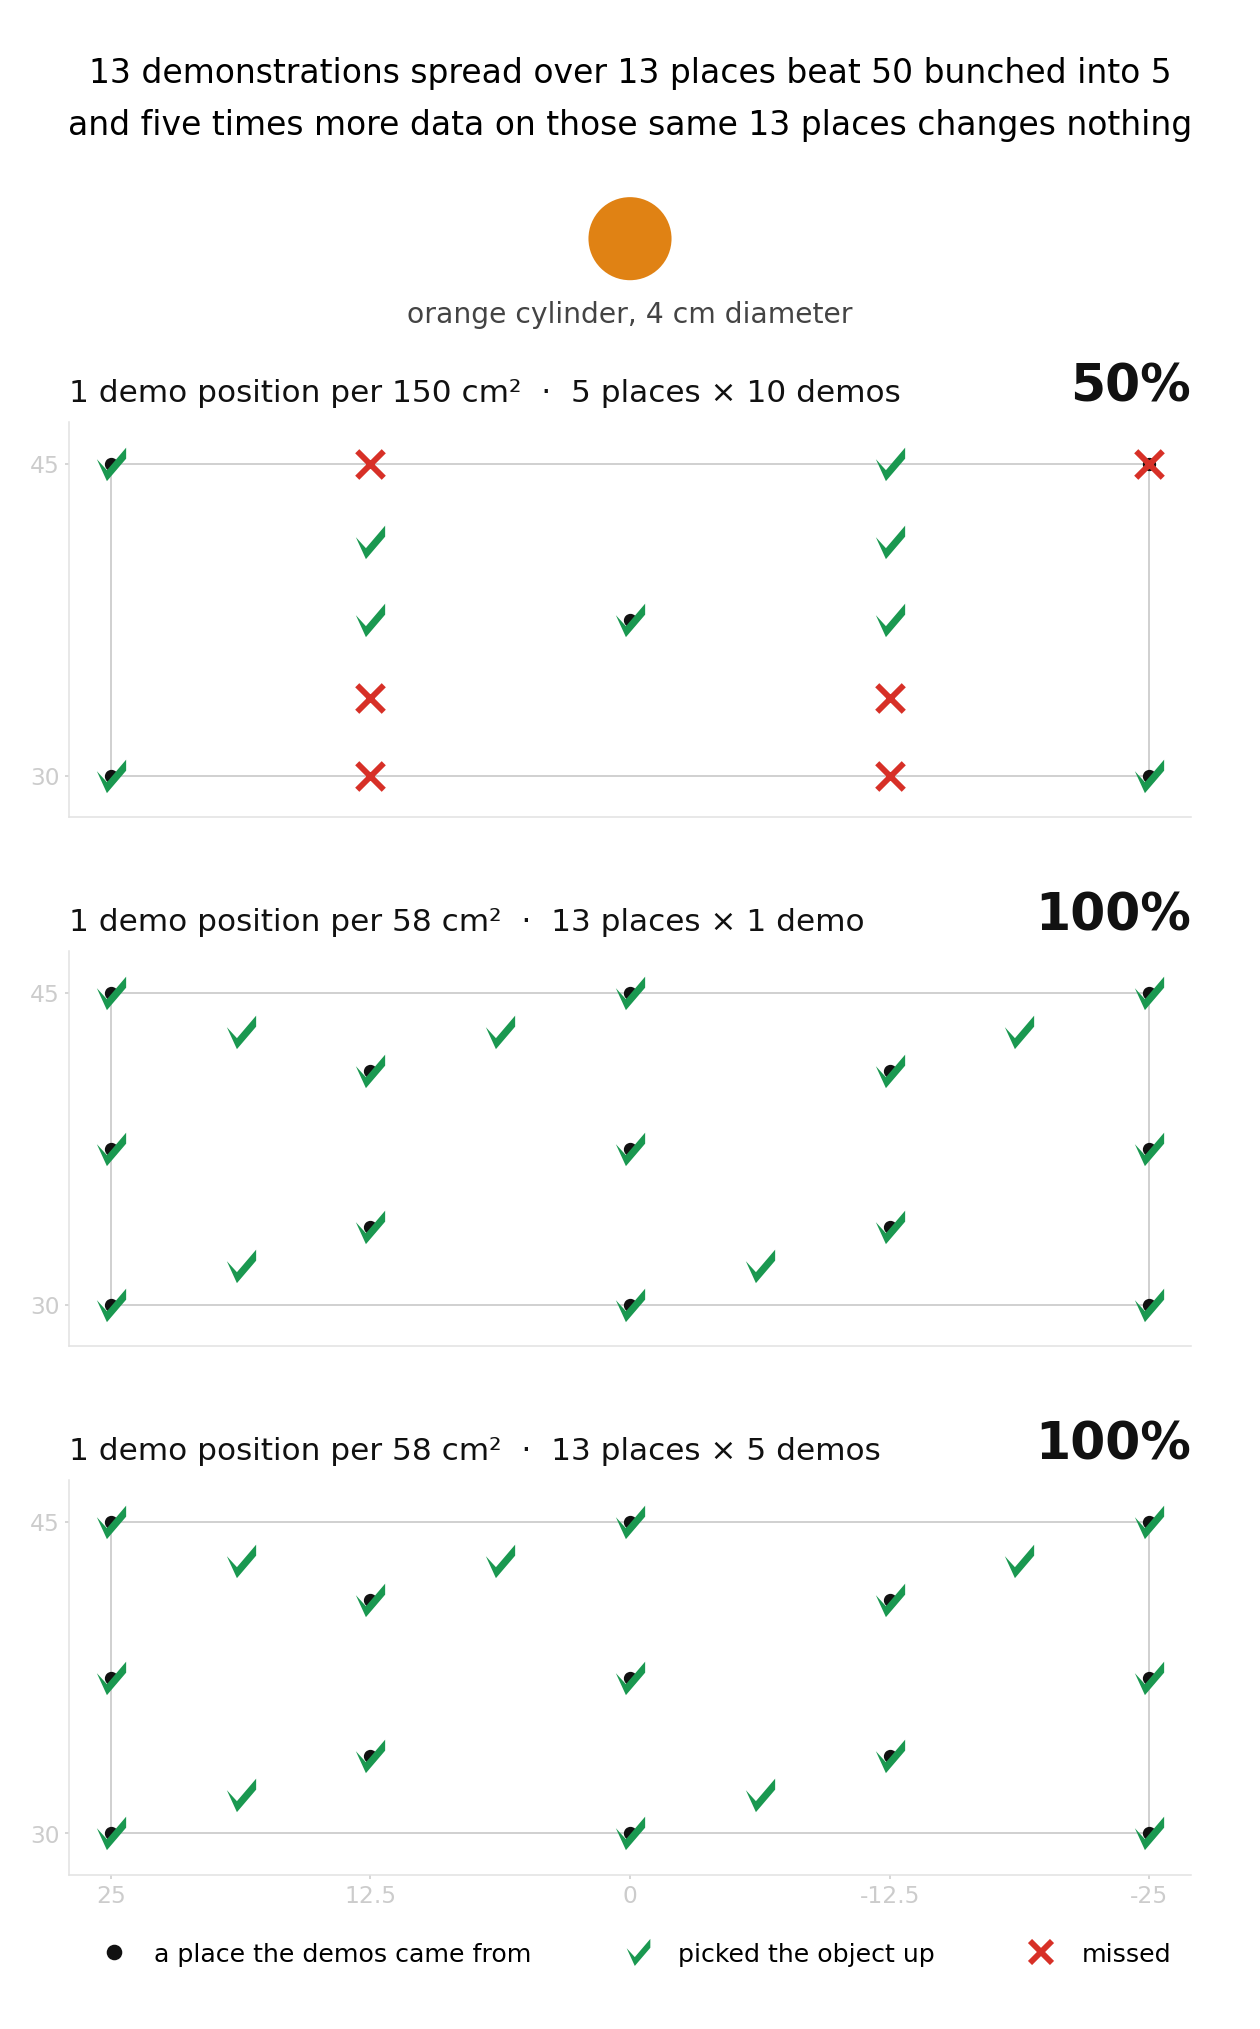
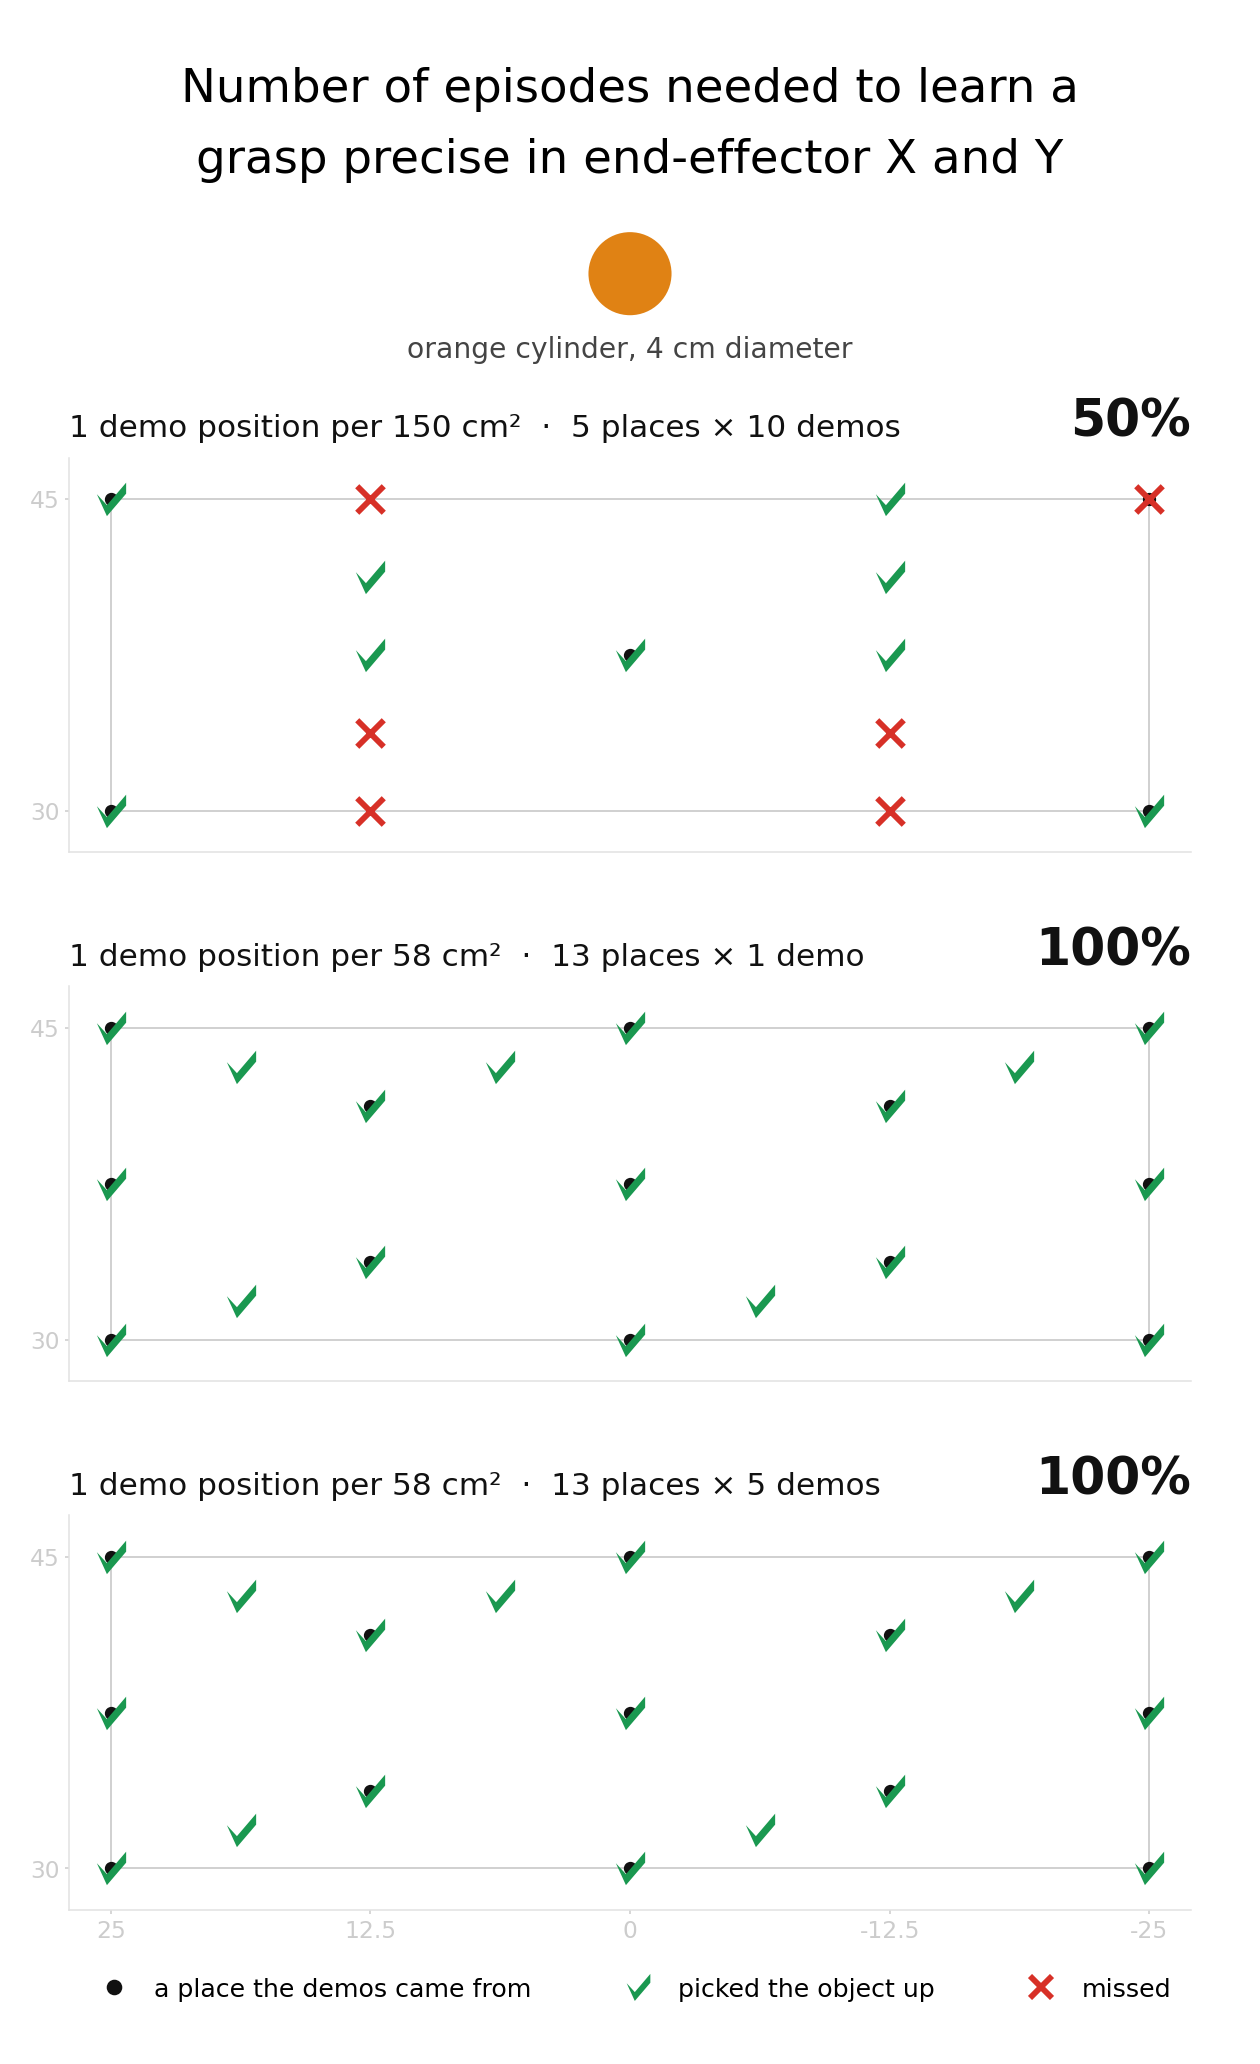
updated figures

diff --git a/_projects/vla_sim_to_real.md b/_projects/vla_sim_to_real.md
@@ -60,11 +60,11 @@ Joint logs are sampled at the driver's native **1.4 kHz**, not on the 10 Hz poli
 
 How many demonstrations does a task need? Sim-to-sim answers that first: train in simulation, test on placements the policy was never shown, and read off the episode count where it starts working. That is the baseline the sim-to-real requirement is measured against.
 
-Two objects set the scale. A cylinder has to be gripped near its centre or it slips, so it measures precision in x and y. A cuboid adds yaw. The difference between them is what one extra degree of freedom requires.
-
 ### Sim-to-Sim Baseline
 
-Picking a 4 cm cylinder off a 50 by 15 cm patch of table, scored at positions the policy was never shown.
+Two tasks set the scale. Picking up a 4 cm cylinder needs the gripper precise in x and y, since a cylinder looks the same from every direction. Picking up a cuboid adds yaw. Nothing else changes between them, so the gap between the two episode counts is what one extra degree of freedom costs.
+
+Both are scored over a 50 by 15 cm patch of table, at placements the policy was never shown.
 
 <div class="figure-pair">
   <figure>
@@ -77,29 +77,27 @@ Picking a 4 cm cylinder off a 50 by 15 cm patch of table, scored at positions th
   </figure>
 </div>
 
-Five sites at 10 episodes each, 50 in total, drops half the objects in the gaps between sites. Thirteen sites at one episode each, a quarter of the data, picks up the object in every gap it is tested in. Five episodes at each of those same 13 sites, 65 in total, changes nothing. It was already at 100%.
+Position first. Fifty episodes spread over 5 sites fails: half the objects fall in the gaps between sites. Thirteen episodes over 13 sites, a quarter of the data, picks the object up everywhere it is tested.
 
-What separates them is not the amount of data but the distance from any point on the table to the nearest demonstration. Five sites leave a worst spot nearly 14 cm away. Thirteen bring that under 7 cm, less than two object widths, and below that distance the policy fills in the gap on its own.
+What counts is the spacing between demonstrations, not how many there are. Thirteen sites over the 750 cm&sup2; patch is one demonstration per 58 cm&sup2;. At that spacing the policy covers the gaps on its own; at one per 150 cm&sup2; it does not. And more data at the same spacing adds nothing: 65 episodes over those same 13 sites still scores 100%.
 
-Orientation behaves the same way at fixed data size. All three conditions are 130 episodes, 13 sites at 10 each, differing only in how those 10 spread across the cuboid's yaw. Two angles fails 60% of the time at anything else. Four angles handles a little over three quarters. A fresh angle every episode, closing the largest untaught gap to under 9 degrees, handles all of them.
+Yaw costs ten times more. The cuboid needs 130 episodes, the same 13 sites with 10 angles at each, and the angles have to differ. Ten episodes split over two angles fails 60% of the time on anything else, over four angles about a quarter of the time. Only a fresh angle every episode works everywhere.
 
-Coverage, not volume. 13 episodes for position and 130 for orientation were enough because the demonstrations were spread finer than the tolerance the task needs. Past that, more of them change nothing.
+So 13 episodes for x and y, 130 once yaw matters too. Every axis the gripper has to get right multiplies the data, and a task needing a full 6D pose adds roll and pitch on top of that.
 
 ### Sim-to-Real: The Extra Data
 
-On the real Franka, with nothing changed but the robot, the same policy picked up 3 objects in 10.
-
 <img src="{{ '/assets/images/sim_to_real.png' | relative_url }}" alt="Real robot grasp success against episode budget, with failure mode at each budget" class="figure">
 
-The failures say more than the number. It was not reaching and missing, it was driving the gripper into the table: a policy with no idea where the object is, not one slightly off.
+At the simulation budget the failure mode says more than the score. The gripper was not reaching and missing, it was driving into the table. That is a policy with no idea where the object is, not one that is slightly off.
 
-At 390 episodes, 60%, and the crashes are gone, leaving missed reaches and dropped lifts. The failure mode changed before the success rate finished moving. At 650, five times the simulation requirement, 90%.
+At 390 episodes the crashes are gone, leaving missed reaches and dropped lifts, and the score is 60%. The failure mode changed before the success rate finished moving. At 650 it reaches 90%, five times the simulation requirement.
 
-Five times, not fifty. Fifty assumed the policy has to see combinations of the randomized settings. At 650 episodes, 87% of the sky, table, colour and position combinations never occurred once, and it scored 90% anyway. Each setting only has to be covered on its own, and every episode redraws all of them at once: 96% of each range by 130 episodes, 99% by 650.
+Five times and not more, because each randomized setting only has to be covered on its own, not in combination with the others. At 650 episodes, 87% of the light, table, colour and position combinations had never occurred once, and the policy scored 90% anyway. Every episode redraws all the settings at the same time, so the individual ranges fill in fast: 96% of each by 130 episodes, 99% by 650.
 
-That explains why the extra data is small, not why it is 5 and not 1. By 130 episodes no meaningful holes are left in any range, and 130 is where the robot was still hitting the table. Covering a range and learning to ignore it may be different problems, but the 650 is measured, not derived, and the ablation that would settle it has not been run.
+That explains why the extra data is small, not why it is five times and not one. 96% of every range is already covered at 130 episodes, and 130 is where the gripper was still hitting the table. Covering a range and learning to ignore it may be different problems. The 650 is measured, and the ablation that would settle it has not been run.
 
-The same 650 episodes spread across 8 objects still gives 80%. Every episode of every task samples the same randomization, so the requirement is per dataset, not per task: with a multi-task dataset already collected under randomization, new collection goes on new tasks.
+The requirement is per dataset, not per task. The same 650 episodes spread over 8 objects still gives 80%, since every episode of every task samples the same randomization. Once one multi-task dataset is collected under randomization, new collection goes on new tasks.
 
 ### Conclusion
 
